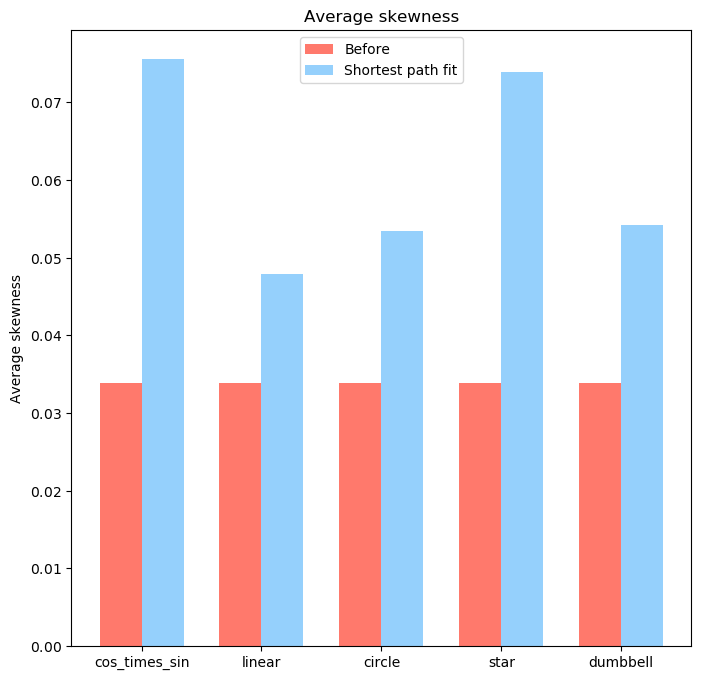
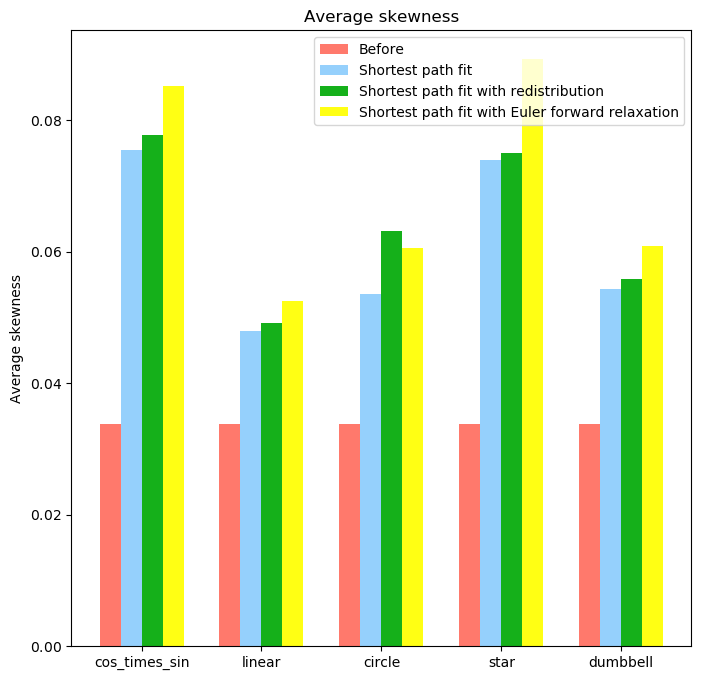
run of the program
just a run of the program

diff --git a/main_programv2.py b/main_programv2.py
@@ -320,11 +320,13 @@ allmethodnames = ['Cut method', 'Cut and flip method', 'Shortest path fit', 'Sho
 # methodstoapply = []
 # methodstoapply = ['Cut method']
 # methodstoapply = ['Cut and flip method']
-methodstoapply = ['Shortest path fit']
+# methodstoapply = ['Shortest path fit']
 # methodstoapply = ['Shortest path fit with redistribution']
 # methodstoapply = ['Shortest path fit with fixed-point relaxation']
 # methodstoapply = ['Shortest path fit with Euler forward relaxation']
 # methodstoapply = ['Cut method','Cut and flip method']
+methodstoapply = ['Shortest path fit', 'Shortest path fit with redistribution',
+                  'Shortest path fit with Euler forward relaxation']
 # methodstoapply = allmethodnames
 
 
